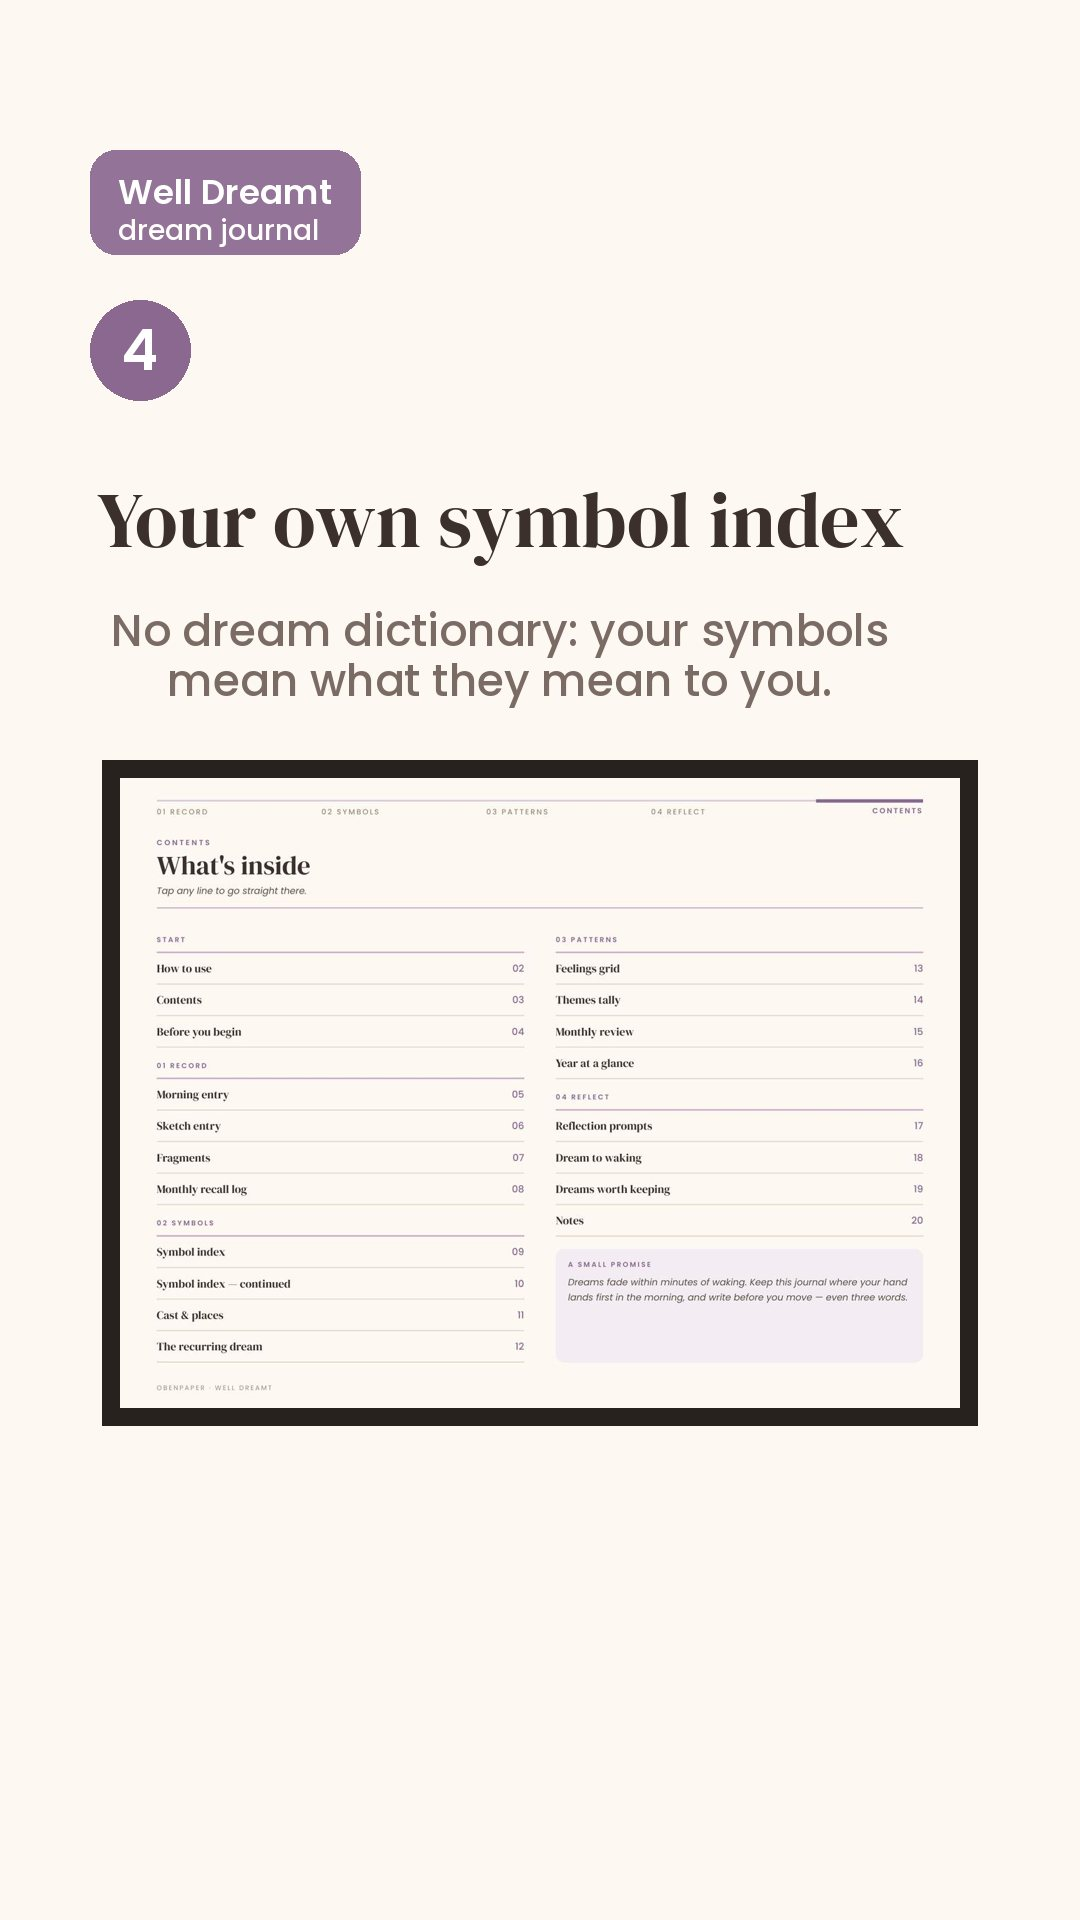
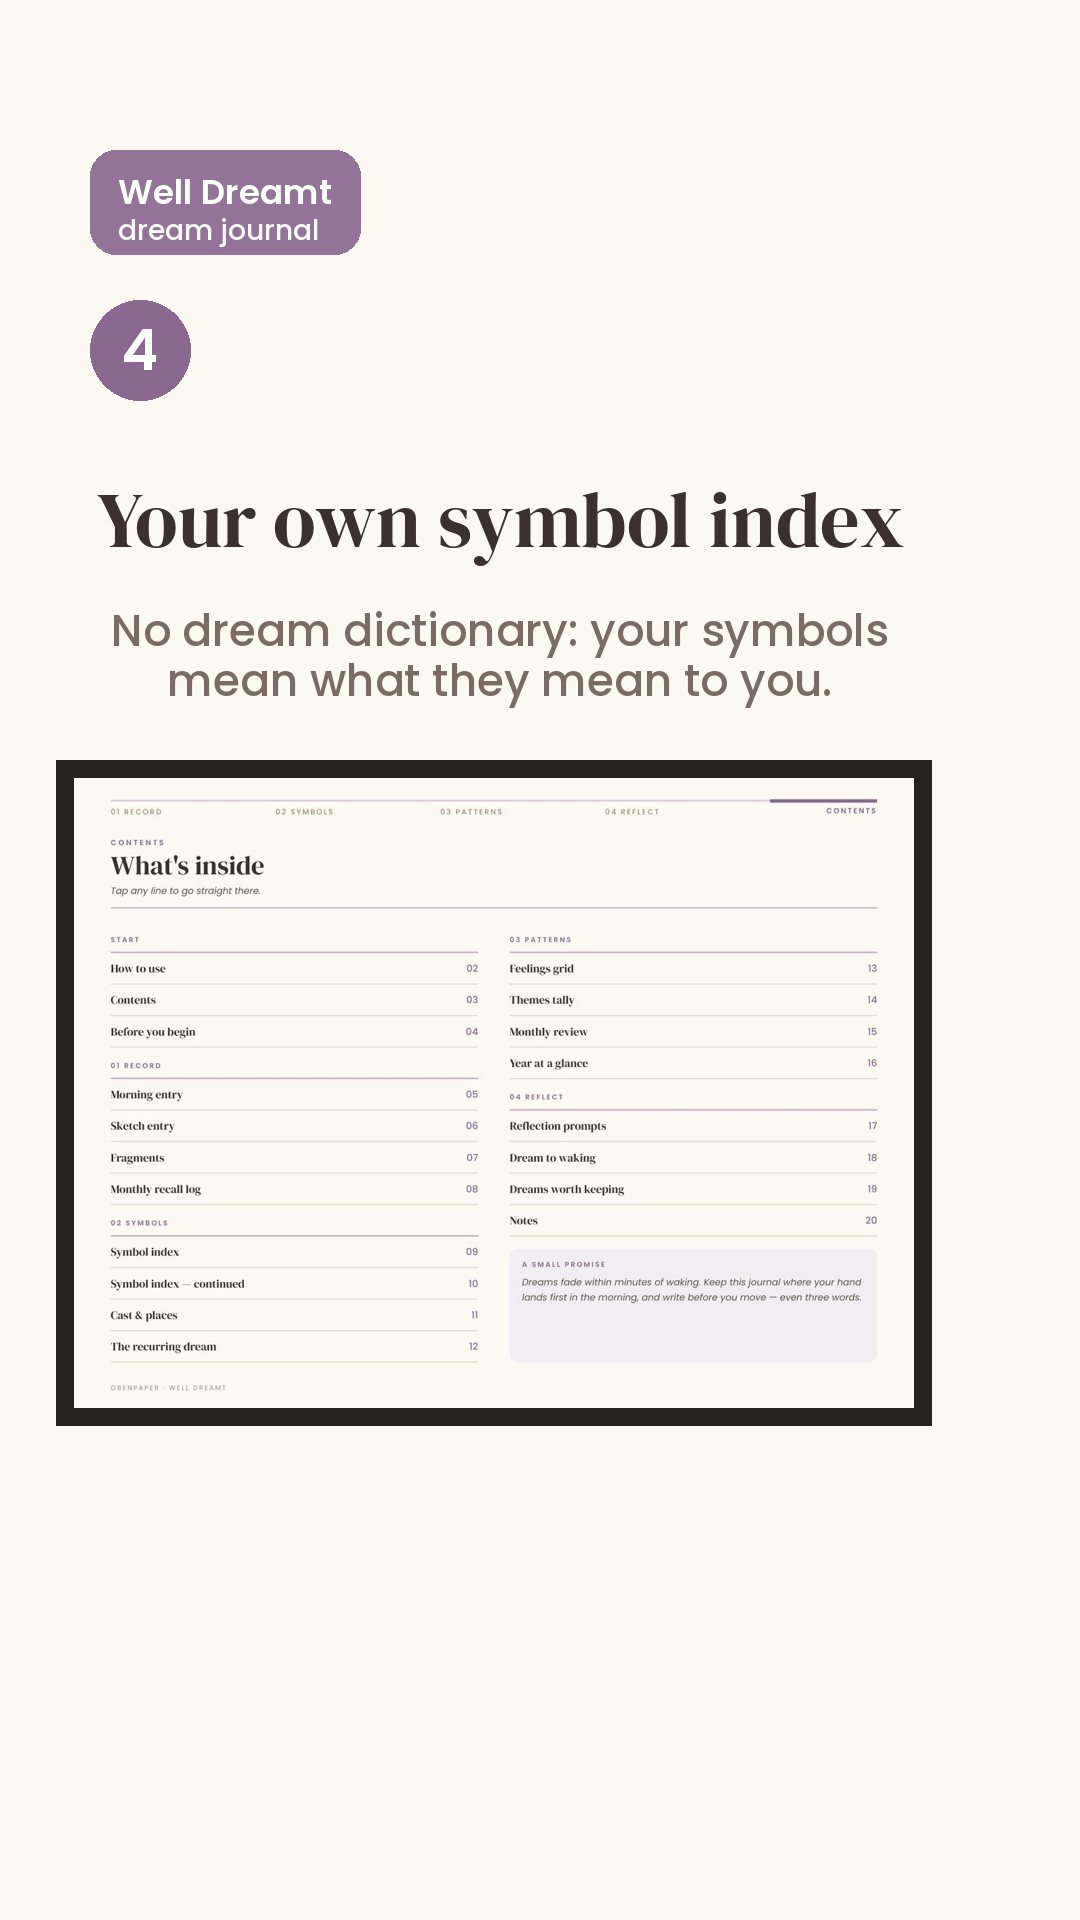
Carousel pages centred on the safe zone
Claude-Session: https://claude.ai/code/session_01Ux9cpv4bnN4BGkgwm1MEeq

Changed region(s): [[0.0306, 0.375, 0.275, 0.75], [0.4889, 0.375, 0.9167, 0.75], [0.4583, 0.5, 0.6111, 0.6562]]

diff --git a/pin-studio/tiktok_carousel.py b/pin-studio/tiktok_carousel.py
@@ -26,7 +26,7 @@ def page(img, path, y, width=840):
     pg = pg.resize((width, h))
     frame = Image.new("RGBA", (width + 36, h + 36), (40, 34, 31, 255))
     frame.paste(pg, (18, 18))
-    img.alpha_composite(frame, ((W - frame.width) // 2, y))
+    img.alpha_composite(frame, (494 - frame.width // 2, y))  # centred on the safe zone (x 48–940)
     return y + frame.height
 
 
